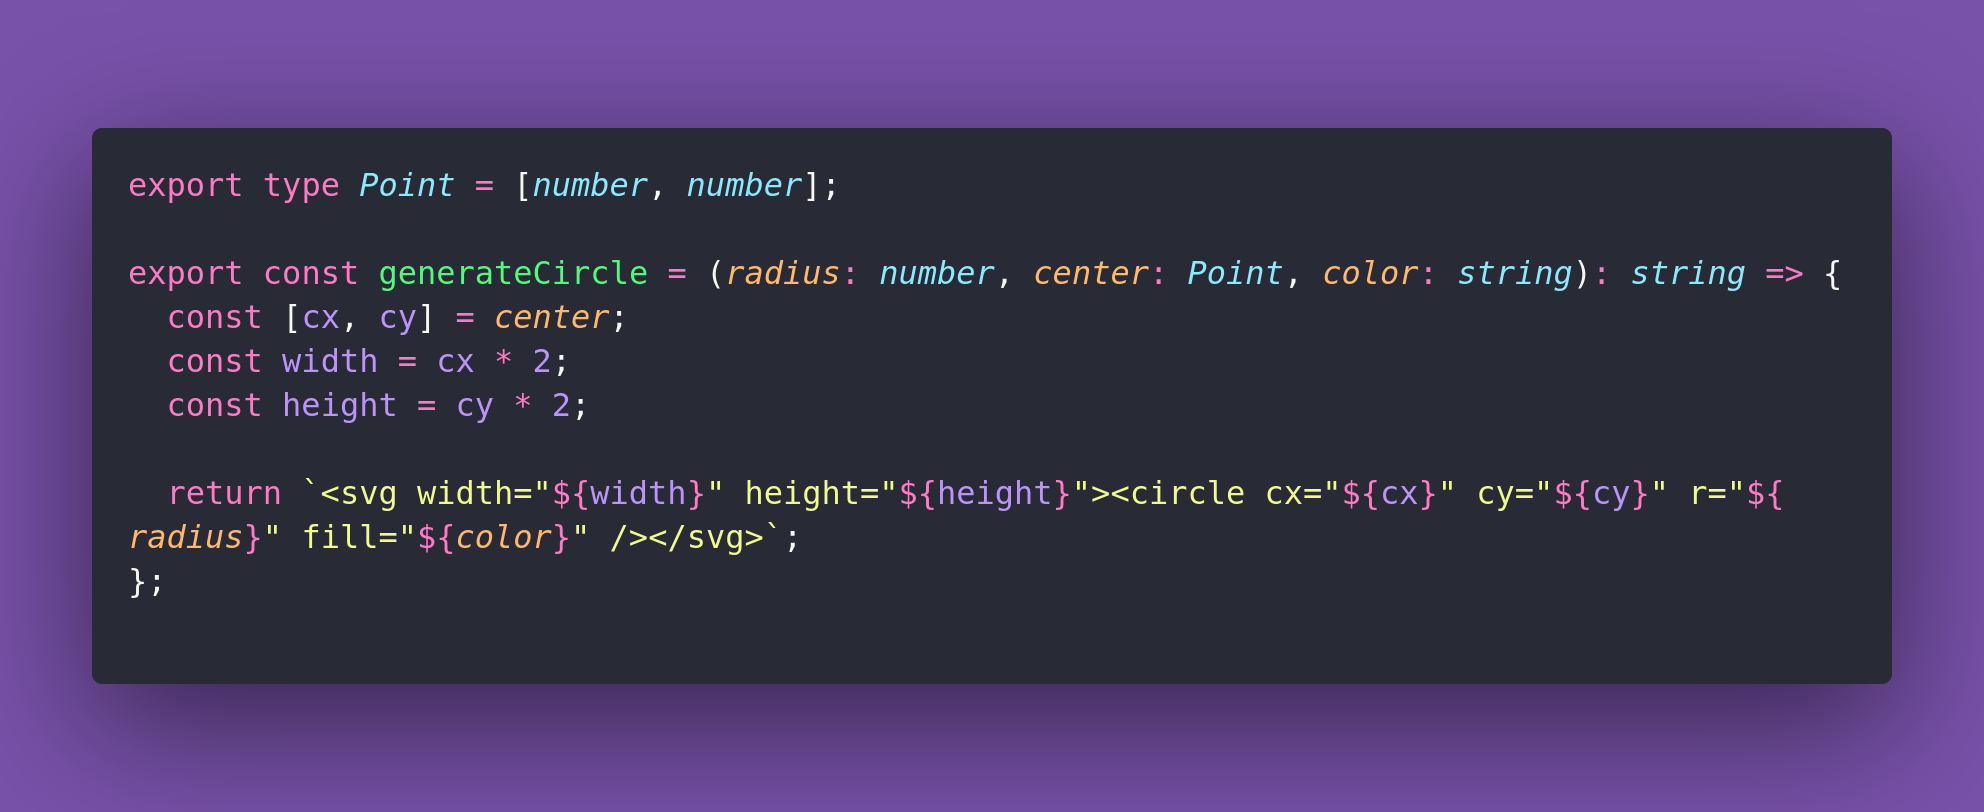
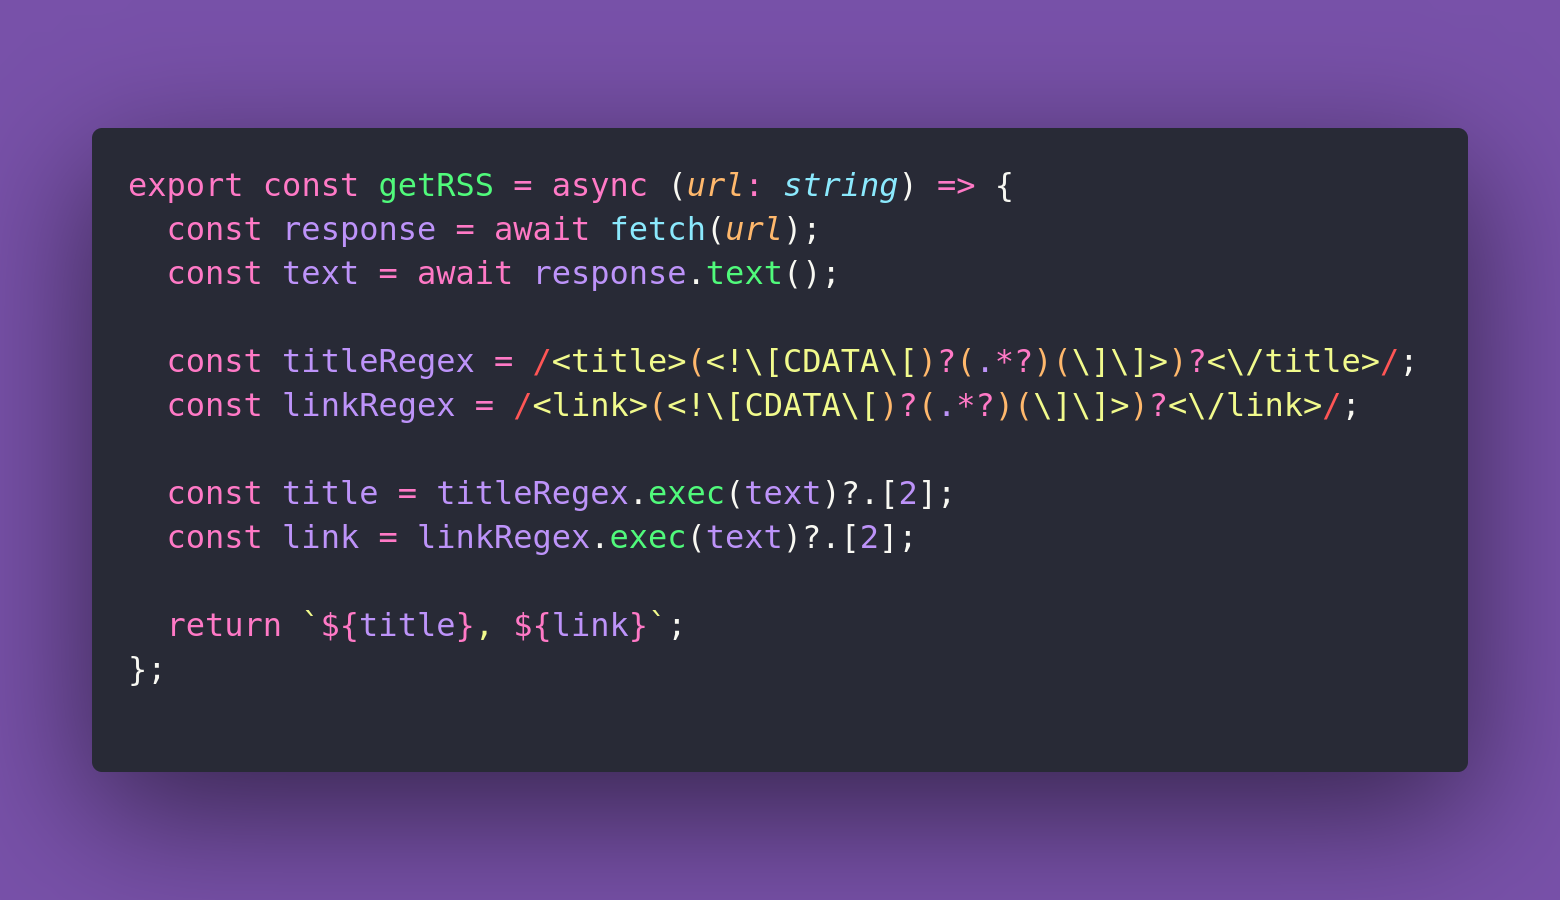
:sparkles: Solve 375. Get RSS

Changed region(s): [[0.0308, 0.1232, 0.9538, 0.8621]]

diff --git a/src/375-get-rss/get-rss.test.ts b/src/375-get-rss/get-rss.test.ts
@@ -1,48 +1,28 @@
 import { describe, expect, test } from "vitest";
-import { generateCircle } from "./generate-circle.js";
-
-import type { Point } from "./generate-circle.js";
+import { getRSS } from "./get-rss.js";
 
 type TestCase = {
-  input: {
-    radius: number;
-    center: Point;
-    color: string;
-  };
+  input: string;
   output: string;
 };
 
 const TEST_CASES: TestCase[] = [
+  { input: "https://cassidoo.co/rss.xml", output: "Cassidy Williams, https://cassidoo.co/" },
   {
-    input: {
-      radius: 10,
-      center: [50, 50],
-      color: "red",
-    },
-    output: '<svg width="100" height="100"><circle cx="50" cy="50" r="10" fill="red" /></svg>',
+    input: "https://feed.syntax.fm/",
+    output: "Syntax - Tasty Web Development Treats, https://syntax.fm",
   },
   {
-    input: {
-      radius: 20,
-      center: [100, 100],
-      color: "blue",
-    },
-    output: '<svg width="200" height="200"><circle cx="100" cy="100" r="20" fill="blue" /></svg>',
-  },
-  {
-    input: {
-      radius: 30,
-      center: [75, 50],
-      color: "green",
-    },
-    output: '<svg width="150" height="100"><circle cx="75" cy="50" r="30" fill="green" /></svg>',
+    input: "https://www.joshwcomeau.com/rss.xml",
+    output: "Josh Comeau's blog, https://www.joshwcomeau.com/",
   },
 ];
 
-describe("generateCircle", () => {
+describe("getRSS", () => {
   for (const { input, output } of TEST_CASES) {
-    test(`should return ${output} for ${JSON.stringify(input)}`, () => {
-      expect(generateCircle(input.radius, input.center, input.color)).toBe(output);
+    test(`should return "${output}" when given "${input}"`, async () => {
+      const result = await getRSS(input);
+      expect(result).toBe(output);
     });
   }
 });

diff --git a/src/375-get-rss/get-rss.ts b/src/375-get-rss/get-rss.ts
@@ -1,4 +1,12 @@
 export const getRSS = async (url: string) => {
+  const response = await fetch(url);
   const text = await response.text();
-  return text;
+
+  const titleRegex = /<title>(<!\[CDATA\[)?(.*?)(\]\]>)?<\/title>/;
+  const linkRegex = /<link>(<!\[CDATA\[)?(.*?)(\]\]>)?<\/link>/;
+
+  const title = titleRegex.exec(text)?.[2];
+  const link = linkRegex.exec(text)?.[2];
+
+  return `${title}, ${link}`;
 };

diff --git a/src/375-get-rss/README.md b/src/375-get-rss/README.md
@@ -1,20 +1,20 @@
-# 🌽 Generate Circle
+# 🖍 Get RSS
 
-Interview question of the [issue #374 of rendezvous with cassidoo](https://buttondown.com/cassidoo/archive/dont-block-your-blessings-jennifer-hudson/).
+Interview question of the [issue #375 of rendezvous with cassidoo](https://buttondown.com/cassidoo/archive/whatever-the-problem-be-part-of-the-solution-tina/).
 
 ## The Question
 
-Write a function that generates a valid SVG string for a circle given its radius, center
-position, and color.
+Write a function that takes in an RSS feed URL, and returns the title of and link to the the
+original feed source. You can get other things too, if you'd like!
 
 ### Example
 
 ```js
-generateCircle(radius = 50, center = (100, 100), color = "blue")
-"<svg width='200' height='200'><circle cx='100' cy='100' r='50' fill='blue'/>svg>"
+getRSS('https://cassidoo.co/rss.xml')
+"Cassidy Williams, https://cassidoo.co/"
 
-generateCircle(radius = 30, center = (75, 50), color = "red")
-"<svg width='150' height='100'><circle cx='75' cy='50' r='30' fill='red'/>svg>"
+getRSS("https://feed.syntax.fm/")
+"Syntax - Tasty Web Development Treats, https://syntax.fm"
 ```
 
 ## Solution
